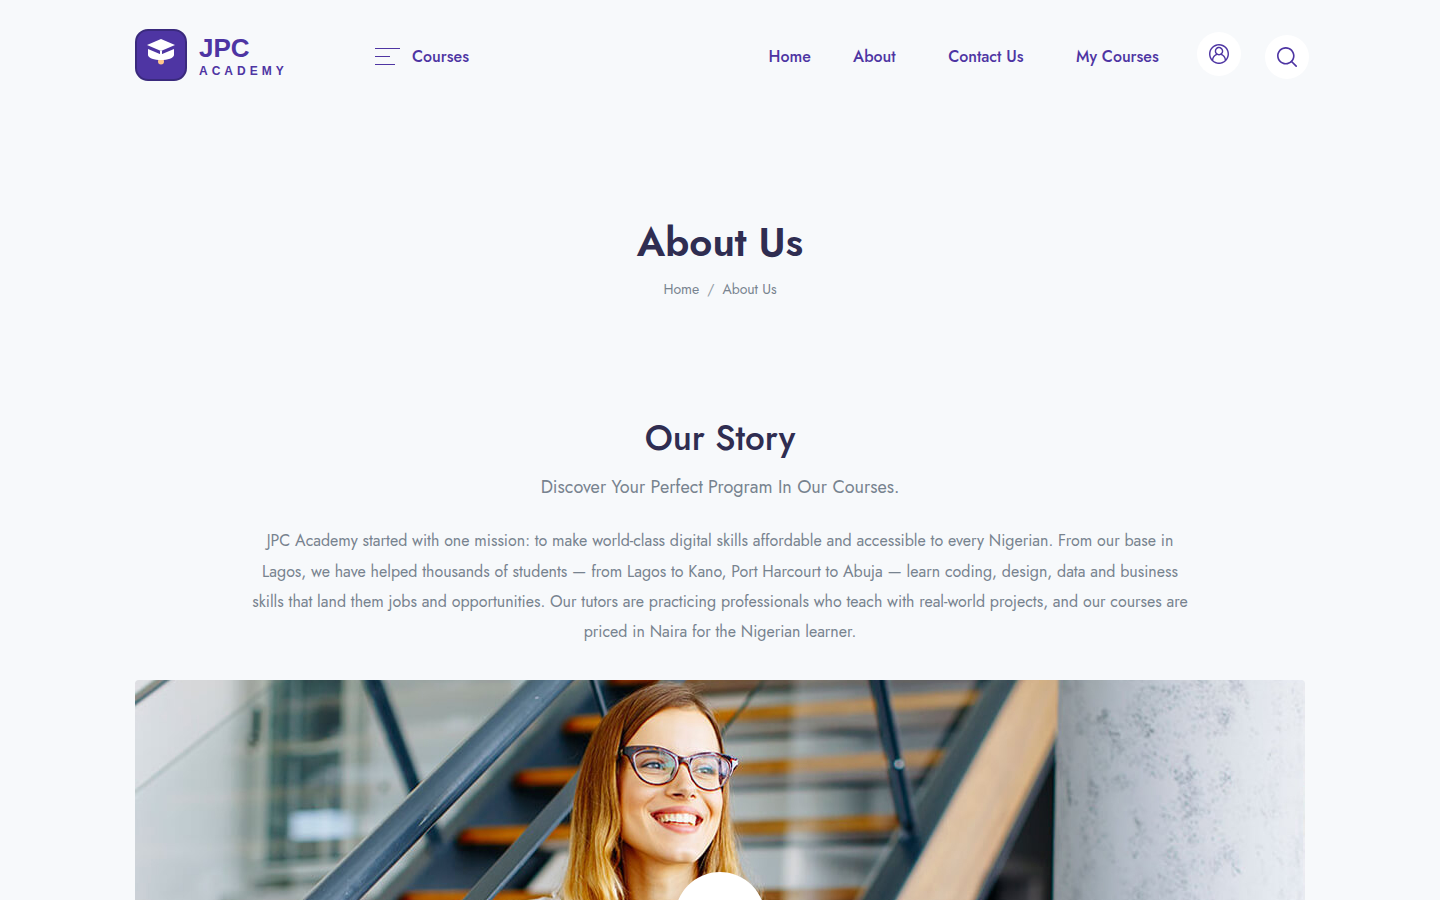
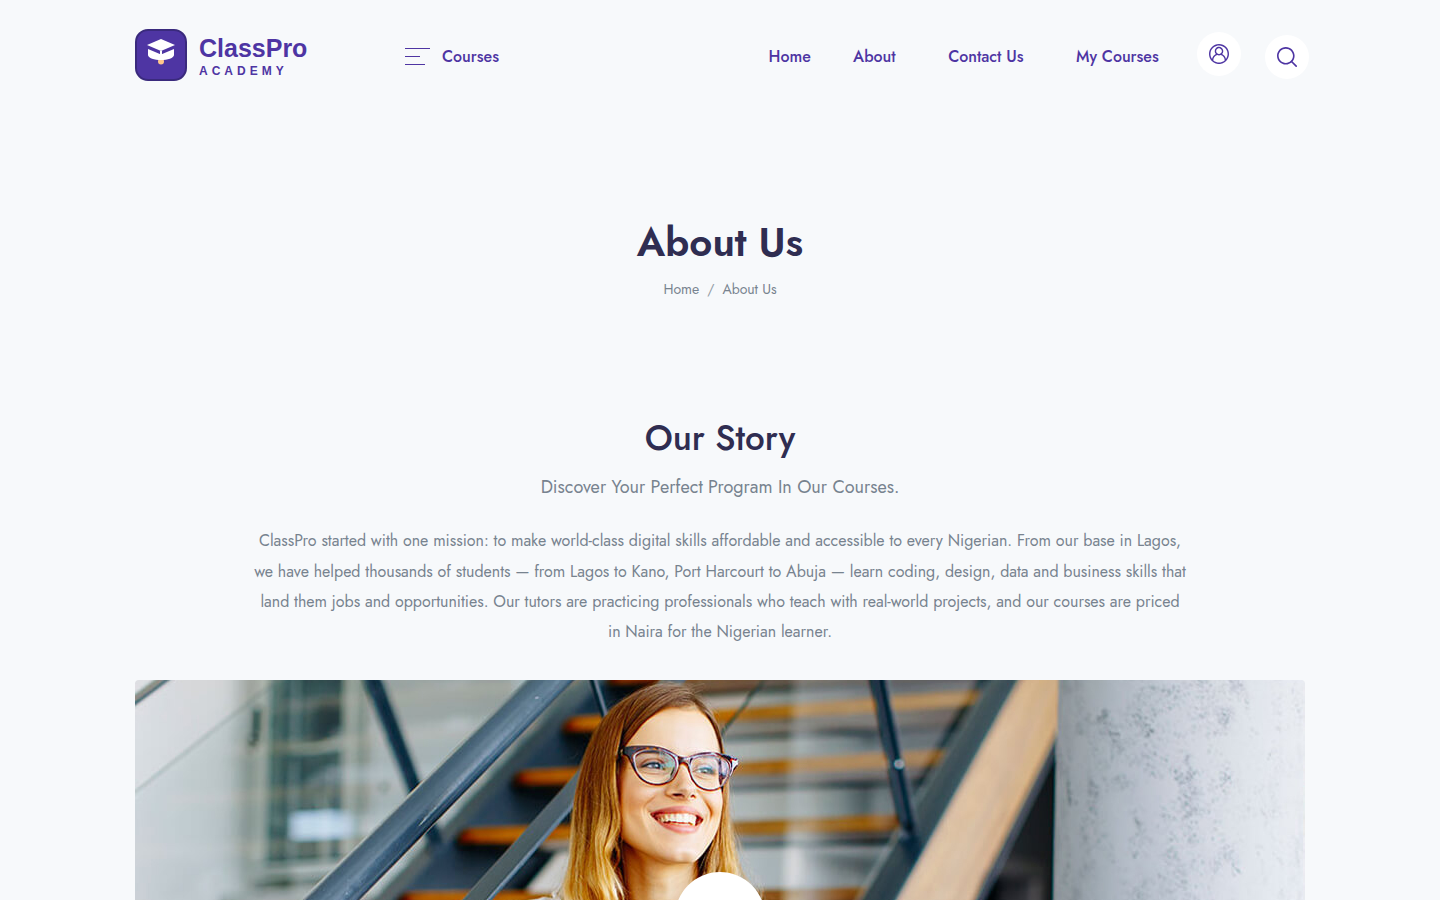
rebrand to ClassPro and refresh portfolio screenshots

Changed region(s): [[0.1562, 0.5911, 0.8125, 0.7156], [0.2812, 0.0311, 0.3438, 0.0933], [0.125, 0.0311, 0.2188, 0.0622]]

diff --git a/templates/lms/index.html b/templates/lms/index.html
@@ -419,7 +419,7 @@
                 </li>
 
                 <li class="nav-item px-md-5 mb-4 mb-md-0">
-                    <a href="#" class="nav-link fw-medium p-0 opacity-hover"><span class="font-size-xxl me-3">02</span><span class="font-size-lg">Why JPC Academy is Best</span></a>
+                    <a href="#" class="nav-link fw-medium p-0 opacity-hover"><span class="font-size-xxl me-3">02</span><span class="font-size-lg">Why ClassPro is Best</span></a>
                 </li>
 
                 <li class="nav-item px-md-5 mb-4 mb-md-0">
@@ -1030,13 +1030,13 @@
 
             <div class="tab-content text-center mb-md-11 mb-8 w-xl-75 mx-auto" id="pills-tabContent">
                 <div class="tab-pane fade show active" id="pills-home" role="tabpanel" aria-labelledby="pills-home-tab">
-                    <p class="mb-0 text-capitalize h4 text-gray-800 fw-normal">“ JPC Academy changed my career. I started the Python course with no coding experience and within six months I was working remotely as a junior developer. The tutors explain everything in simple terms, and paying in Naira made it affordable for me.“</p>
+                    <p class="mb-0 text-capitalize h4 text-gray-800 fw-normal">“ ClassPro changed my career. I started the Python course with no coding experience and within six months I was working remotely as a junior developer. The tutors explain everything in simple terms, and paying in Naira made it affordable for me.“</p>
                 </div>
                 <div class="tab-pane fade" id="pills-profile" role="tabpanel" aria-labelledby="pills-profile-tab">
-                    <p class="mb-0 text-capitalize h4 text-gray-800 fw-normal">“ JPC Academy changed my career. I started the Python course with no coding experience and within six months I was working remotely as a junior developer. The tutors explain everything in simple terms, and paying in Naira made it affordable for me. “</p>
+                    <p class="mb-0 text-capitalize h4 text-gray-800 fw-normal">“ ClassPro changed my career. I started the Python course with no coding experience and within six months I was working remotely as a junior developer. The tutors explain everything in simple terms, and paying in Naira made it affordable for me. “</p>
                 </div>
                 <div class="tab-pane fade" id="pills-contact" role="tabpanel" aria-labelledby="pills-contact-tab">
-                    <p class="mb-0 text-capitalize h4 text-gray-800 fw-normal">“ JPC Academy changed my career. I started the Python course with no coding experience and within six months I was working remotely as a junior developer. The tutors explain everything in simple terms, and paying in Naira made it affordable for me. “</p>
+                    <p class="mb-0 text-capitalize h4 text-gray-800 fw-normal">“ ClassPro changed my career. I started the Python course with no coding experience and within six months I was working remotely as a junior developer. The tutors explain everything in simple terms, and paying in Naira made it affordable for me. “</p>
                 </div>
             </div>
 
@@ -1156,7 +1156,7 @@
                             <div class="mb-3 h2 text-dodger">
                                 <i class="fab fa-twitter"></i>
                             </div>
-                            <a href="{% url 'contact-us' %}" class="">@JPC Academy</a>
+                            <a href="{% url 'contact-us' %}" class="">@ClassPro</a>
                             <p class="mb-2">New cohort starting this month! Learn React and build real projects with our tutors.</p>
                             <span class="text-primary font-size-sm">15 August 2026</span>
                         </div>
@@ -1165,7 +1165,7 @@
                             <div class="mb-3 h2 text-dodger">
                                 <i class="fab fa-twitter"></i>
                             </div>
-                            <a href="{% url 'contact-us' %}" class="">@JPC Academy</a>
+                            <a href="{% url 'contact-us' %}" class="">@ClassPro</a>
                             <p class="mb-2">New cohort starting this month! Learn React and build real projects with our tutors.</p>
                             <span class="text-primary font-size-sm">15 August 2026</span>
                         </div>

diff --git a/templates/lms/about-us.html b/templates/lms/about-us.html
@@ -38,7 +38,7 @@
             <p class="font-size-lg mb-5 text-capitalize">Discover your perfect program in our courses.</p>
 
             <p class="w-xl-80 mx-auto line-height-md">
-                JPC Academy started with one mission: to make world-class digital skills affordable and accessible to every Nigerian. From our base in Lagos, we have helped thousands of students — from Lagos to Kano, Port Harcourt to Abuja — learn coding, design, data and business skills that land them jobs and opportunities. Our tutors are practicing professionals who teach with real-world projects, and our courses are priced in Naira for the Nigerian learner.
+                ClassPro started with one mission: to make world-class digital skills affordable and accessible to every Nigerian. From our base in Lagos, we have helped thousands of students — from Lagos to Kano, Port Harcourt to Abuja — learn coding, design, data and business skills that land them jobs and opportunities. Our tutors are practicing professionals who teach with real-world projects, and our courses are priced in Naira for the Nigerian learner.
             </p>
         </div>
 
@@ -89,7 +89,7 @@
     <section class="py-5 pt-md-11 pb-md-10 bg-light text-center">
         <div class="container">
             <div class="mb-md-8 mb-4">
-                <h1>Why Study With JPC Academy</h1>
+                <h1>Why Study With ClassPro</h1>
                 <p class="font-size-lg mb-0 text-capitalize">Discover your perfect program in our courses.</p>
             </div>
 
@@ -185,7 +185,7 @@
 
                         <!-- Footer -->
                         <div class="card-footer px-0 pb-0 pt-4">
-                            <p class="mb-0 text-capitalize">“ JPC Academy helped me transition from a complete beginner to a working developer. The tutors are patient, the lessons are practical, and paying in Naira made it easy. “</p>
+                            <p class="mb-0 text-capitalize">“ ClassPro helped me transition from a complete beginner to a working developer. The tutors are patient, the lessons are practical, and paying in Naira made it easy. “</p>
                         </div>
                     </div>
                 </div>
@@ -214,7 +214,7 @@
 
                         <!-- Footer -->
                         <div class="card-footer px-0 pb-0 pt-4">
-                            <p class="mb-0 text-capitalize">“ JPC Academy helped me transition from a complete beginner to a working developer. The tutors are patient, the lessons are practical, and paying in Naira made it easy. “</p>
+                            <p class="mb-0 text-capitalize">“ ClassPro helped me transition from a complete beginner to a working developer. The tutors are patient, the lessons are practical, and paying in Naira made it easy. “</p>
                         </div>
                     </div>
                 </div>
@@ -243,7 +243,7 @@
 
                         <!-- Footer -->
                         <div class="card-footer px-0 pb-0 pt-4">
-                            <p class="mb-0 text-capitalize">“ JPC Academy helped me transition from a complete beginner to a working developer. The tutors are patient, the lessons are practical, and paying in Naira made it easy. “</p>
+                            <p class="mb-0 text-capitalize">“ ClassPro helped me transition from a complete beginner to a working developer. The tutors are patient, the lessons are practical, and paying in Naira made it easy. “</p>
                         </div>
                     </div>
                 </div>
@@ -272,7 +272,7 @@
 
                         <!-- Footer -->
                         <div class="card-footer px-0 pb-0 pt-4">
-                            <p class="mb-0 text-capitalize">“ JPC Academy helped me transition from a complete beginner to a working developer. The tutors are patient, the lessons are practical, and paying in Naira made it easy. “</p>
+                            <p class="mb-0 text-capitalize">“ ClassPro helped me transition from a complete beginner to a working developer. The tutors are patient, the lessons are practical, and paying in Naira made it easy. “</p>
                         </div>
                     </div>
                 </div>

diff --git a/templates/partials/footer.html b/templates/partials/footer.html
@@ -12,7 +12,7 @@
 
                     <!-- Text -->
                     <p class="text-gray-800 mb-4 font-size-sm-alone">
-                        JPC Academy, 14 Adeola Odeku Street, Victoria Island, Lagos, Nigeria.
+                        ClassPro, 14 Adeola Odeku Street, Victoria Island, Lagos, Nigeria.
                     </p>
 
                     <div class="mb-4">
@@ -20,7 +20,7 @@
                     </div>
 
                     <div class="mb-4">
-                        <a href="mailto:support@jpcacademy.com" class="text-gray-800 font-size-sm-alone">support@jpcacademy.com</a>
+                        <a href="mailto:support@classpro.com" class="text-gray-800 font-size-sm-alone">support@classpro.com</a>
                     </div>
 
                     <!-- Social -->
@@ -275,7 +275,7 @@
 
                 <div class="col-12 mt-md-5">
                     <div class="border-top pb-5 pt-6 py-md-4 text-center text-xl-start d-flex flex-column d-md-block d-xl-flex flex-xl-row align-items-center">
-                        <p class="text-gray-800 font-size-sm-alone d-block mb-0 mb-md-2 mb-xl-0 order-1 order-md-0 px-9 px-md-0">Copyright © {% now "Y" %} JPC Academy. All Right Reserved.</p>
+                        <p class="text-gray-800 font-size-sm-alone d-block mb-0 mb-md-2 mb-xl-0 order-1 order-md-0 px-9 px-md-0">Copyright © {% now "Y" %} ClassPro. All Right Reserved.</p>
 
                         <div class="ms-xl-auto d-flex flex-column flex-md-row align-items-stretch align-items-md-center justify-content-center">
                             <ul class="navbar-nav flex-row flex-wrap font-size-sm-alone mb-3 mb-md-0 mx-n4 me-md-5 justify-content-center justify-content-lg-start order-1 order-md-0">

diff --git a/templates/lms/checkout.html b/templates/lms/checkout.html
@@ -133,7 +133,7 @@
                             <label class="form-check-label" for="payment_bank">Bank Transfer</label>
                         </div>
                         <div class="payment-info d-none" id="info_bank">
-                            <p class="font-size-sm mb-1 mt-2">JPC Academy<br>GTBank<br>Account No: <strong>0123456789</strong></p>
+                            <p class="font-size-sm mb-1 mt-2">ClassPro<br>GTBank<br>Account No: <strong>0123456789</strong></p>
                             <p class="font-size-sm mb-0">After transfer, tap Complete Purchase to send your payment proof on WhatsApp.</p>
                         </div>
                     </li>
@@ -176,7 +176,7 @@
         var last = document.getElementById('last_name') ? document.getElementById('last_name').value : '';
         var method = document.querySelector('input[name="payment_method"]:checked');
         var label = method ? method.getAttribute('data-label') : 'WhatsApp';
-        var text = 'Hello JPC Academy! I want to enroll for the course "' + courseTitle + '" (' + sellPrice + ').%0AMy name is ' + first + ' ' + last + '.%0APayment method: ' + encodeURIComponent(label);
+        var text = 'Hello ClassPro! I want to enroll for the course "' + courseTitle + '" (' + sellPrice + ').%0AMy name is ' + first + ' ' + last + '.%0APayment method: ' + encodeURIComponent(label);
         return 'https://wa.me/' + phone + '?text=' + text;
     }
 

diff --git a/templates/lms/contact_us.html b/templates/lms/contact_us.html
@@ -110,8 +110,8 @@
                             </div>
                             <div class="media-body flex-shrink-1">
                                 <h5 class="mb-4">Write to Us</h5>
-                                <a href="mailto:info@jpcacademy.com" class="text-gray-800">info@jpcacademy.com</a>
-                                <a href="mailto:courses@jpcacademy.com" class="text-gray-800">courses@jpcacademy.com</a>
+                                <a href="mailto:info@classpro.com" class="text-gray-800">info@classpro.com</a>
+                                <a href="mailto:courses@classpro.com" class="text-gray-800">courses@classpro.com</a>
                             </div>
                         </div>
                     </div>

diff --git a/README.md b/README.md
@@ -1,4 +1,4 @@
-# JPC Academy - Learning Management System
+# ClassPro - Learning Management System
 
 A full-featured **Django Learning Management System** built for Nigerian learners, with course enrollment, video lessons, Naira pricing and secure authentication.
 
